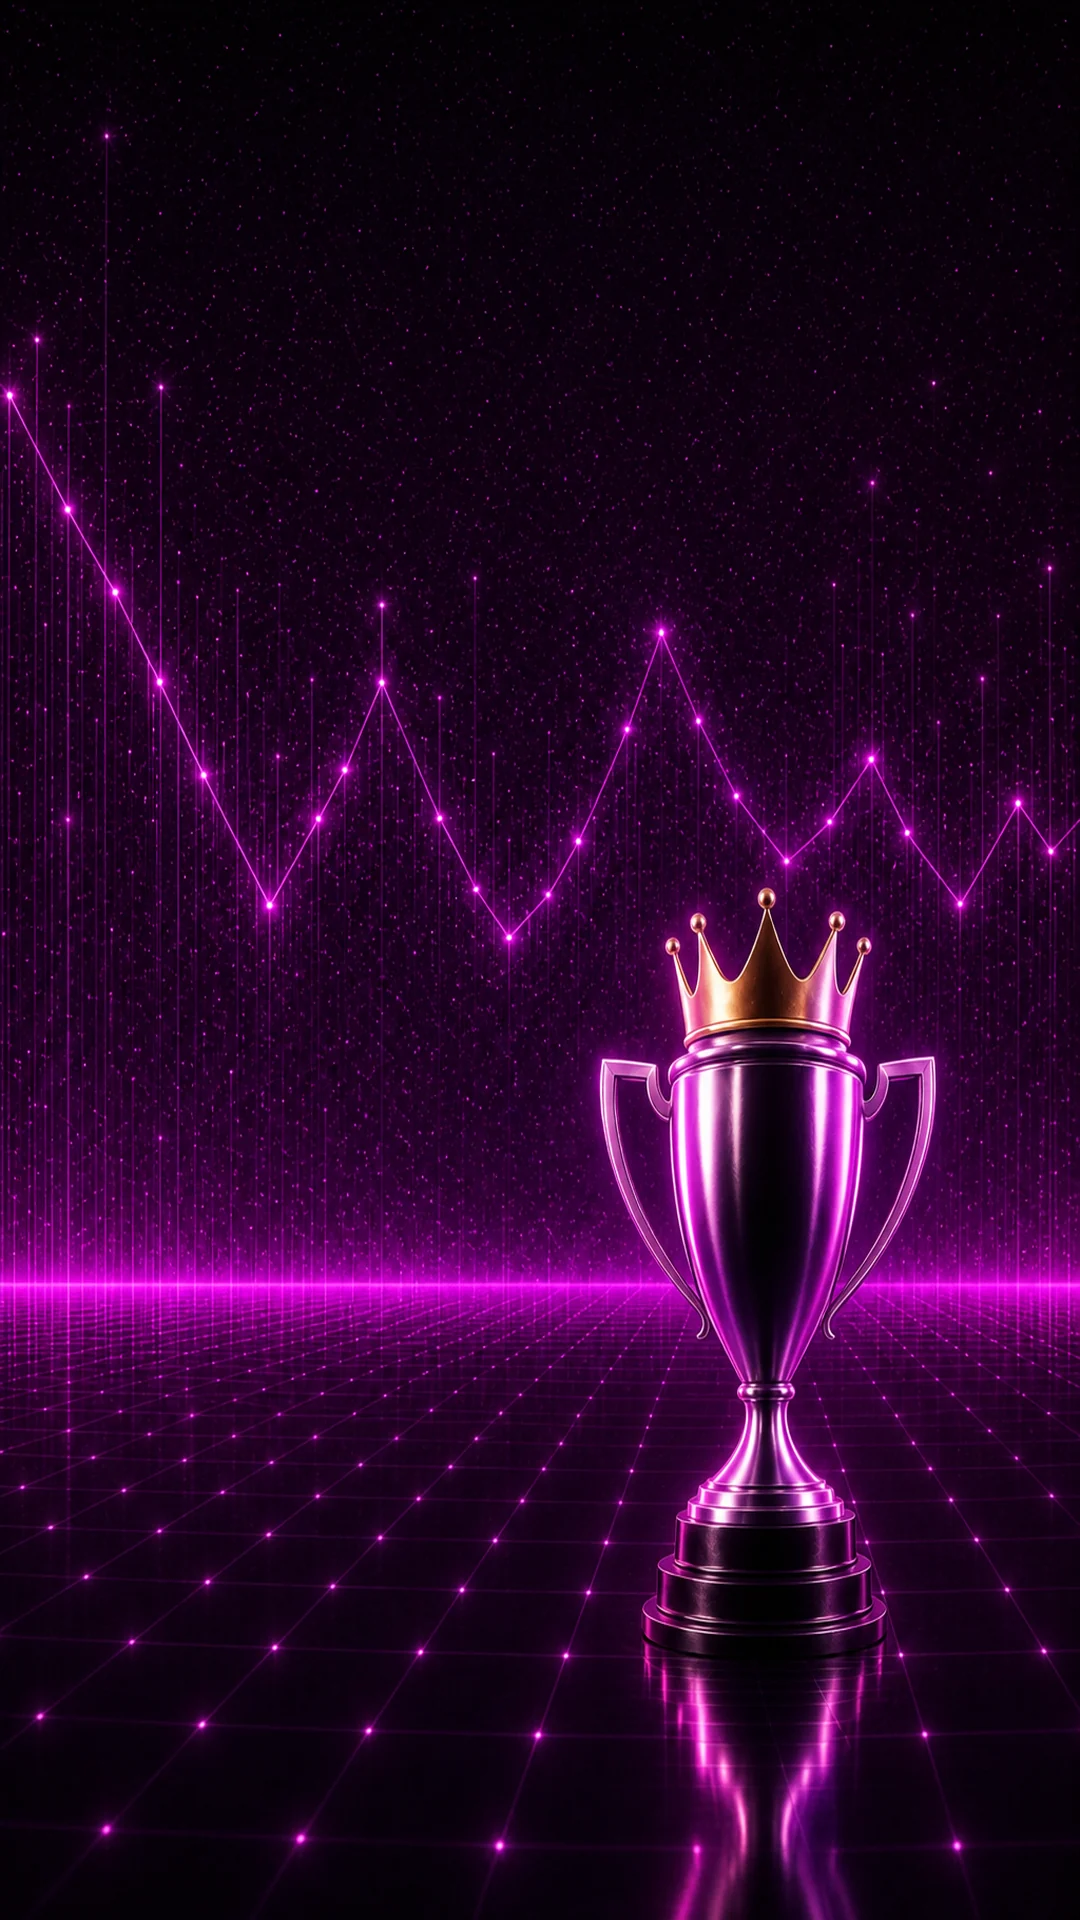
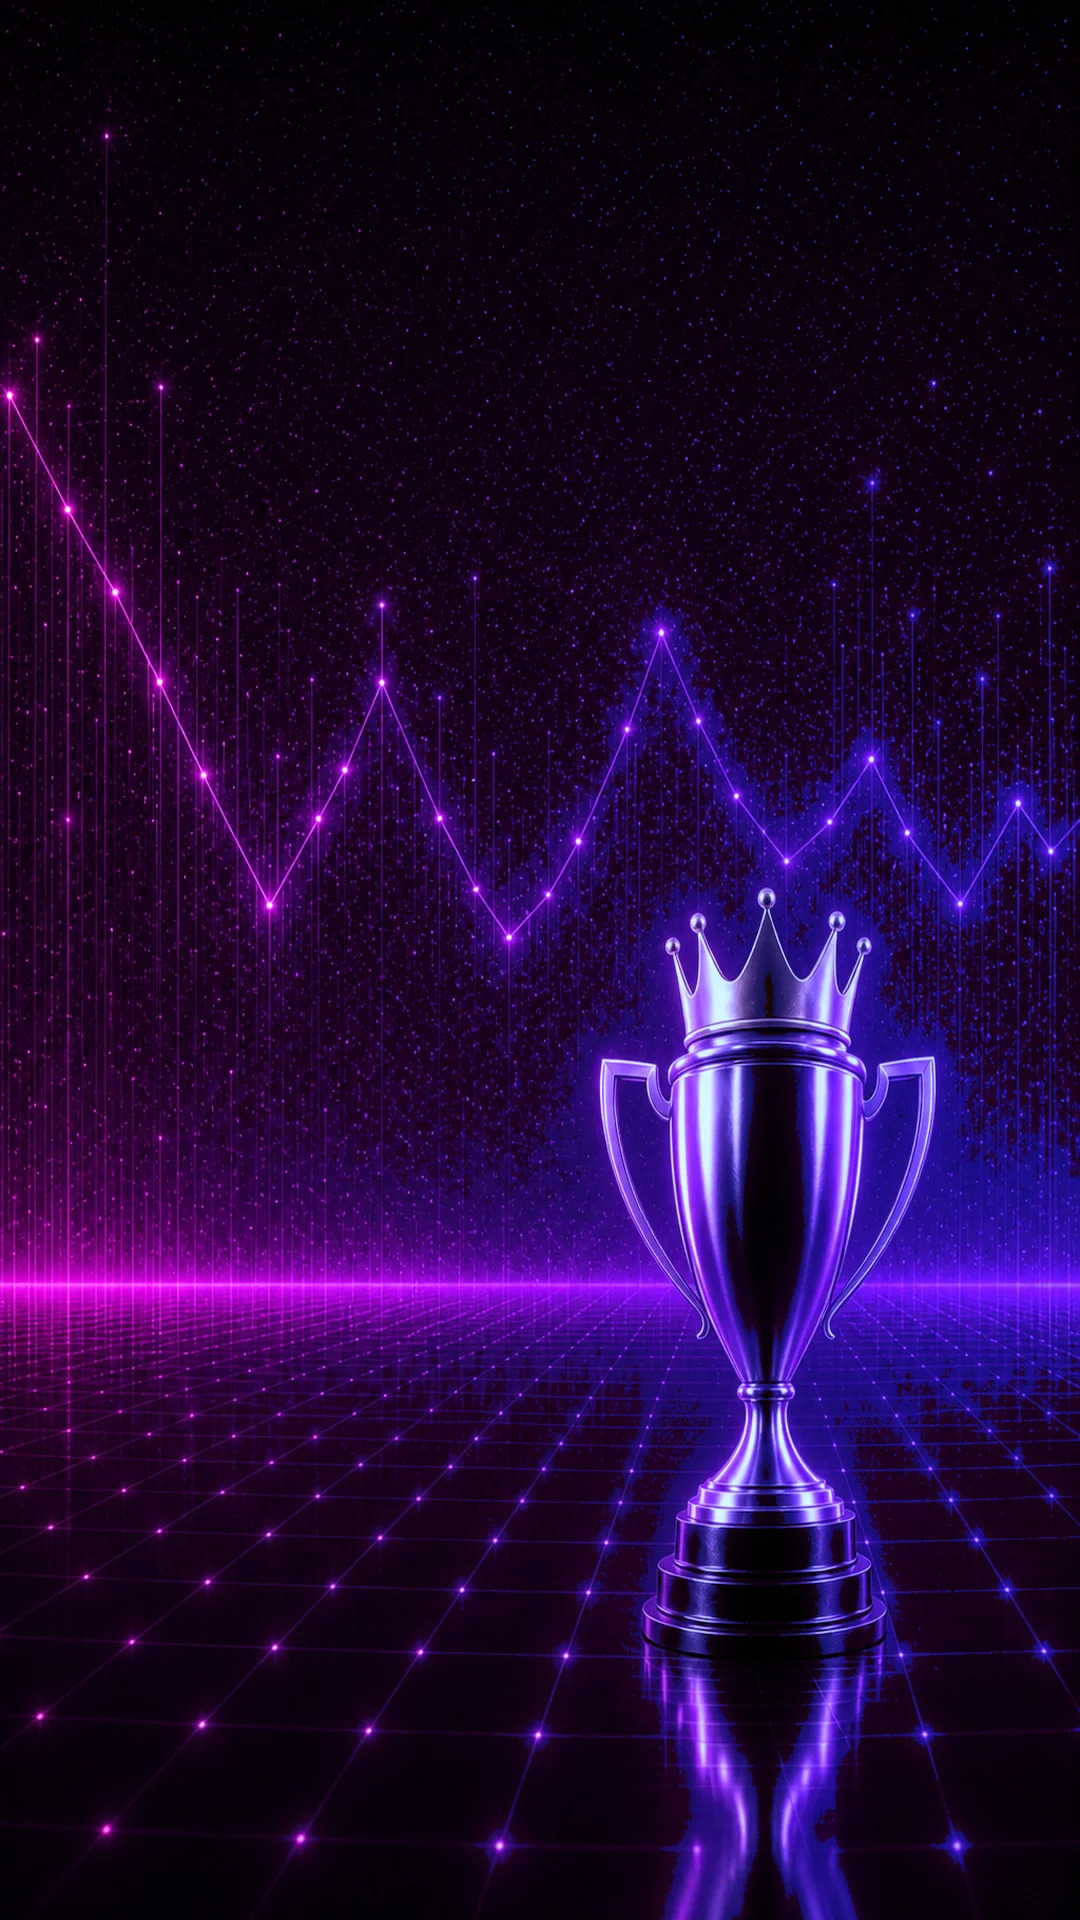
fix(design): rebalance blue against pink overwhelm
Align chrome with SCL-DESIGN-SPEC roles: pink stays on conviction CTAs/
verified; blue owns navigation chrome (border-strong, ring, sidebar,
tabs, volume bars, nav hovers, section icons). Soft pink→blue grade on
the single hero scene; logo mark resolves pink into blue.

diff --git a/src/app/globals.css b/src/app/globals.css
@@ -119,7 +119,7 @@
   --popover: var(--scl-ink-800);
   --popover-foreground: var(--scl-text);
 
-  /* Pink = conviction (CTAs, selection, verification, rank); blue = navigation */
+  /* Pink = conviction (CTAs, verified, selection). Blue = navigation / chrome. */
   --primary: var(--scl-pink);
   --primary-foreground: var(--scl-pink-ink);
   --brand: var(--scl-pink);
@@ -132,8 +132,13 @@
   --avatar-foreground: #ffffff;
   --avatar-start-lightness: 0.42;
   --avatar-chroma: 0.08;
-  --accent: color-mix(in srgb, var(--scl-pink) 16%, var(--scl-ink-700));
-  --accent-foreground: var(--scl-pink-deep);
+  /* Purple bridge — pink + blue, so accent surfaces aren't pink-only */
+  --accent: color-mix(
+    in srgb,
+    var(--scl-blue) 12%,
+    color-mix(in srgb, var(--scl-pink) 10%, var(--scl-ink-700))
+  );
+  --accent-foreground: var(--scl-blue-deep);
   --destructive: var(--scl-loss);
 
   --pos: var(--scl-win);
@@ -150,12 +155,13 @@
   --push: var(--scl-push);
 
   --border: var(--scl-line);
-  --border-strong: color-mix(in srgb, var(--scl-pink) 45%, var(--scl-line));
+  /* Strong borders lean blue (nav chrome) — pink stays on conviction hairlines */
+  --border-strong: color-mix(in srgb, var(--scl-blue) 42%, var(--scl-line));
   --input: var(--scl-line);
-  --ring: var(--scl-pink);
+  --ring: var(--scl-blue);
 
   --chart-1: var(--scl-pink);
-  --chart-2: var(--scl-pink-deep);
+  --chart-2: var(--scl-blue);
   --chart-3: var(--scl-win);
   --chart-4: var(--scl-muted-data);
   --chart-5: var(--scl-loss);
@@ -168,12 +174,12 @@
 
   --sidebar: var(--scl-ink-900);
   --sidebar-foreground: var(--scl-text);
-  --sidebar-primary: var(--scl-pink);
-  --sidebar-primary-foreground: var(--scl-pink-ink);
+  --sidebar-primary: var(--scl-blue);
+  --sidebar-primary-foreground: var(--scl-blue-ink);
   --sidebar-accent: var(--scl-ink-700);
   --sidebar-accent-foreground: var(--scl-text);
   --sidebar-border: var(--scl-line);
-  --sidebar-ring: var(--scl-pink);
+  --sidebar-ring: var(--scl-blue);
 }
 
 /* Alias for design-doc paste compatibility */
@@ -240,8 +246,13 @@
   --avatar-foreground: #ffffff;
   --avatar-start-lightness: 0.38;
   --avatar-chroma: 0.06;
-  --accent: color-mix(in srgb, var(--scl-pink) 14%, var(--scl-ink-700));
-  --accent-foreground: var(--scl-pink);
+  /* Purple bridge — pink + blue, so accent surfaces aren't pink-only */
+  --accent: color-mix(
+    in srgb,
+    var(--scl-blue) 14%,
+    color-mix(in srgb, var(--scl-pink) 10%, var(--scl-ink-700))
+  );
+  --accent-foreground: var(--scl-blue);
   --destructive: var(--scl-loss);
 
   --pos: var(--scl-win);
@@ -258,16 +269,13 @@
   --push: var(--scl-push);
 
   --border: var(--scl-line);
-  --border-strong: color-mix(
-    in srgb,
-    var(--scl-pink-deep) 55%,
-    var(--scl-line)
-  );
+  /* Strong borders lean blue (nav chrome) — pink stays on conviction hairlines */
+  --border-strong: color-mix(in srgb, var(--scl-blue) 48%, var(--scl-line));
   --input: var(--scl-line);
-  --ring: var(--scl-pink);
+  --ring: var(--scl-blue);
 
   --chart-1: var(--scl-pink);
-  --chart-2: var(--scl-pink-deep);
+  --chart-2: var(--scl-blue);
   --chart-3: var(--scl-win);
   --chart-4: var(--scl-muted-data);
   --chart-5: var(--scl-loss);
@@ -278,12 +286,12 @@
 
   --sidebar: var(--scl-ink-900);
   --sidebar-foreground: var(--scl-text);
-  --sidebar-primary: var(--scl-pink);
-  --sidebar-primary-foreground: var(--scl-pink-ink);
+  --sidebar-primary: var(--scl-blue);
+  --sidebar-primary-foreground: var(--scl-blue-ink);
   --sidebar-accent: var(--scl-ink-700);
   --sidebar-accent-foreground: var(--scl-text);
   --sidebar-border: var(--scl-line);
-  --sidebar-ring: var(--scl-pink);
+  --sidebar-ring: var(--scl-blue);
 }
 
 @layer base {

diff --git a/src/components/scl-logo.tsx b/src/components/scl-logo.tsx
@@ -1,8 +1,13 @@
+"use client";
+
+import { useId } from "react";
+
 /**
- * SCL trophy mark — conviction pink (scarce identity signal).
- * Token-driven so it follows dark/light pink values.
+ * SCL trophy mark — pink→blue brand gradient (conviction → navigation).
+ * Token-driven so it follows dark/light pink/blue values.
  */
 export function SclLogo({ className }: { className?: string }) {
+  const gradId = useId().replace(/:/g, "");
   return (
     <svg
       viewBox="0 0 32 32"
@@ -11,7 +16,21 @@ export function SclLogo({ className }: { className?: string }) {
       role="img"
       aria-label="SCL"
     >
-      {/* crown */}
+      <defs>
+        <linearGradient
+          id={gradId}
+          x1="6"
+          y1="4"
+          x2="26"
+          y2="28"
+          gradientUnits="userSpaceOnUse"
+        >
+          <stop offset="0%" stopColor="var(--scl-pink)" />
+          <stop offset="50%" stopColor="var(--scl-pink)" />
+          <stop offset="100%" stopColor="var(--scl-blue)" />
+        </linearGradient>
+      </defs>
+      {/* crown — conviction pink */}
       <path
         d="M9.4 10.2 7.8 4.7 12 7.3 16 3.4 20 7.3 24.2 4.7 22.6 10.2Z"
         fill="var(--scl-pink)"
@@ -19,25 +38,25 @@ export function SclLogo({ className }: { className?: string }) {
       {/* cup bowl */}
       <path
         d="M9.4 11.2h13.2v2.1c0 4.8-2.95 8-6.6 8s-6.6-3.2-6.6-8z"
-        fill="var(--scl-pink)"
+        fill={`url(#${gradId})`}
       />
       {/* handles */}
       <path
         d="M9.4 12.2c-3.4 0-3.4 4.5.2 4.9M22.6 12.2c3.4 0 3.4 4.5-.2 4.9"
-        stroke="var(--scl-pink)"
+        stroke={`url(#${gradId})`}
         strokeWidth="1.7"
         strokeLinecap="round"
         fill="none"
       />
-      {/* stem + base */}
-      <path d="M14.6 21.1h2.8l-.3 3h-2.2z" fill="var(--scl-pink)" />
+      {/* stem + base — resolve into navigation blue */}
+      <path d="M14.6 21.1h2.8l-.3 3h-2.2z" fill="var(--scl-blue)" />
       <rect
         x="11.3"
         y="24.1"
         width="9.4"
         height="3"
         rx="1.4"
-        fill="var(--scl-pink)"
+        fill="var(--scl-blue)"
       />
     </svg>
   );

diff --git a/src/components/scl/league-action-report.tsx b/src/components/scl/league-action-report.tsx
@@ -61,7 +61,7 @@ function VolumeBar({ value, max }: { value: number; max: number }) {
       aria-hidden
     >
       <div
-        className="h-full rounded-full bg-[color:var(--scl-pink)] transition-[width] duration-300"
+        className="h-full rounded-full bg-[color:var(--scl-blue)] transition-[width] duration-300"
         style={{ width: `${pct}%` }}
       />
     </div>
@@ -109,7 +109,7 @@ function ButtonishPicksLink({ label }: { label: string }) {
   return (
     <Link
       href="/picks"
-      className="inline-flex min-h-10 items-center gap-1.5 text-sm font-semibold text-[color:var(--scl-pink)] hover:underline"
+      className="inline-flex min-h-10 items-center gap-1.5 text-sm font-semibold text-[color:var(--scl-blue)] hover:underline"
     >
       {label}
       <ArrowRight className="size-3.5" aria-hidden />
@@ -233,7 +233,7 @@ export function LeagueActionReport({
           >
             <TabsTrigger
               value="leagues"
-              className="min-h-9 px-3 data-active:text-[color:var(--scl-pink)]"
+              className="min-h-9 px-3 data-active:text-[color:var(--scl-blue)]"
             >
               Top Leagues
               {leagues.length > 0 ? (
@@ -246,7 +246,7 @@ export function LeagueActionReport({
               <TabsTrigger
                 key={cat.key}
                 value={cat.key}
-                className="min-h-9 px-3 data-active:text-[color:var(--scl-pink)]"
+                className="min-h-9 px-3 data-active:text-[color:var(--scl-blue)]"
               >
                 {cat.label}
                 <span

diff --git a/src/components/site-header.tsx b/src/components/site-header.tsx
@@ -29,19 +29,19 @@ export async function SiteHeader() {
         <nav className="text-muted-foreground hidden items-center gap-1 text-sm sm:flex">
           <Link
             href="/leaderboard"
-            className="hover:text-foreground inline-flex min-h-11 items-center px-3 transition-colors"
+            className="inline-flex min-h-11 items-center px-3 transition-colors hover:text-[color:var(--scl-blue)]"
           >
             Leaderboard
           </Link>
           <Link
             href="/cappers"
-            className="hover:text-foreground inline-flex min-h-11 items-center px-3 transition-colors"
+            className="inline-flex min-h-11 items-center px-3 transition-colors hover:text-[color:var(--scl-blue)]"
           >
             Cappers
           </Link>
           <Link
             href="/packages"
-            className="hover:text-foreground inline-flex min-h-11 items-center px-3 transition-colors"
+            className="inline-flex min-h-11 items-center px-3 transition-colors hover:text-[color:var(--scl-blue)]"
           >
             Packages
           </Link>

diff --git a/src/components/scl/mobile-navigation.tsx b/src/components/scl/mobile-navigation.tsx
@@ -79,7 +79,7 @@ export function MobileSiteNav({ authed = false }: { authed?: boolean }) {
                 render={<Link href={item.href} className={navLinkClass} />}
               >
                 <Icon
-                  className="size-5 text-[color:var(--scl-muted-data)]"
+                  className="size-5 text-[color:var(--scl-blue)]"
                   aria-hidden
                 />
                 {item.label}
@@ -179,7 +179,7 @@ export function MobileAppNav({ area, nav }: { area: string; nav: NavItem[] }) {
                 render={<Link href={item.href} className={navLinkClass} />}
               >
                 <Icon
-                  className="size-5 text-[color:var(--scl-muted-data)]"
+                  className="size-5 text-[color:var(--scl-blue)]"
                   aria-hidden
                 />
                 {item.label}

diff --git a/src/components/scl/section.tsx b/src/components/scl/section.tsx
@@ -22,7 +22,7 @@ export function SectionHeader({
     <div className={cn("flex items-start justify-between gap-3", className)}>
       <div className="flex min-w-0 items-start gap-2.5">
         {Icon ? (
-          <span className="flex size-9 shrink-0 items-center justify-center rounded-lg border border-[color:var(--scl-line)] bg-[color:var(--scl-ink-700)] text-[color:var(--scl-pink)]">
+          <span className="flex size-9 shrink-0 items-center justify-center rounded-lg border border-[color:var(--scl-line)] bg-[color:var(--scl-ink-700)] text-[color:var(--scl-blue)]">
             <Icon className="size-4" aria-hidden />
           </span>
         ) : null}

diff --git a/src/components/scl/states.tsx b/src/components/scl/states.tsx
@@ -23,7 +23,7 @@ export function EmptyState({
       )}
     >
       {Icon ? (
-        <span className="mb-3 flex size-12 items-center justify-center rounded-xl border border-[color:var(--scl-line)] bg-[color:var(--scl-ink-700)] text-[color:var(--scl-pink)]">
+        <span className="mb-3 flex size-12 items-center justify-center rounded-xl border border-[color:var(--scl-line)] bg-[color:var(--scl-ink-700)] text-[color:var(--scl-blue)]">
           <Icon className="size-6" aria-hidden />
         </span>
       ) : null}

diff --git a/src/components/scl/competition-hero.tsx b/src/components/scl/competition-hero.tsx
@@ -176,7 +176,7 @@ export function CompetitionHero() {
                 className={cn(
                   "focus-visible:ring-ring h-2 rounded-full transition-all focus-visible:ring-2 focus-visible:outline-none",
                   i === index
-                    ? "w-7 bg-[color:var(--scl-pink)]"
+                    ? "w-7 bg-[color:var(--scl-blue)]"
                     : "bg-muted-foreground/40 hover:bg-muted-foreground/70 w-2",
                 )}
               />

diff --git a/docs/SCL_DESIGN_CONTRACT.md b/docs/SCL_DESIGN_CONTRACT.md
@@ -17,19 +17,19 @@ a spreadsheet, a WordPress sports blog, or a default shadcn clone.
 
 Defined in `src/app/globals.css`, dark-mode first. Every color has a job:
 
-| Token                                             | Utility                      | Job                                                                              |
-| ------------------------------------------------- | ---------------------------- | -------------------------------------------------------------------------------- |
-| `background` / `card` / `surface-2` / `surface-3` | `bg-*`                       | Deep **purple** base + layered surfaces (depth)                                  |
-| `border` / `border-strong`                        | `border-*`                   | Premium hairlines; `-strong` carries a pink tint                                 |
-| `brand`                                           | `text-brand`, `bg-brand`     | SCL identity — **pink-magenta**. Accents, highlights, rank movement, focus rings |
-| `primary`                                         | `bg-primary`, `text-primary` | **Blue** — the action color (CTAs, primary buttons, links)                       |
-| `accent`                                          | `bg-accent`                  | Purple bridge between brand-pink and primary-blue                                |
-| `pos`                                             | `text-pos`, `bg-pos/15`      | Positive performance (wins, +units, +ROI) — green                                |
-| `neg`                                             | `text-neg`, `bg-neg/15`      | Negative performance (losses, −units) — red                                      |
-| `gold`                                            | `text-gold`, `bg-gold/10`    | Rank, elite status, trophies, badges                                             |
-| `live`                                            | `text-live`, `bg-live/15`    | Live/real-time + verification — cyan                                             |
-| `push`                                            | —                            | Push/void neutral                                                                |
-| `muted-foreground`                                | `text-muted-foreground`      | Secondary metadata, labels                                                       |
+| Token                                             | Utility                      | Job                                                                                              |
+| ------------------------------------------------- | ---------------------------- | ------------------------------------------------------------------------------------------------ |
+| `background` / `card` / `surface-2` / `surface-3` | `bg-*`                       | Deep **purple** base + layered surfaces (depth)                                                  |
+| `border` / `border-strong`                        | `border-*`                   | Premium hairlines; `-strong` leans **blue** (nav chrome). Section conviction hairlines stay pink |
+| `brand`                                           | `text-brand`, `bg-brand`     | SCL identity — **pink-magenta**. Conviction accents, verified, rank highlights                   |
+| `primary`                                         | `bg-primary`, `text-primary` | **Pink** — conviction CTAs (see `design/SCL-DESIGN-SPEC.md` v1.1)                                |
+| `accent`                                          | `bg-accent`                  | Purple bridge — mix of brand-pink **and** navigation-blue                                        |
+| `pos`                                             | `text-pos`, `bg-pos/15`      | Positive performance (wins, +units, +ROI) — green                                                |
+| `neg`                                             | `text-neg`, `bg-neg/15`      | Negative performance (losses, −units) — red                                                      |
+| `gold`                                            | `text-gold`, `bg-gold/10`    | Rank, elite status, trophies, badges                                                             |
+| `live`                                            | `text-live`, `bg-live/15`    | Live/real-time + verification — cyan                                                             |
+| `push`                                            | —                            | Push/void neutral                                                                                |
+| `muted-foreground`                                | `text-muted-foreground`      | Secondary metadata, labels                                                                       |
 
 Rules: no random colors, no meaningless glow. Gradients are reserved for **brand identity
 only** — the pink→blue `.scl-brand-text` wordmark/heading fill and the restrained pink+blue

diff --git a/docs/SCL_ASSET_MANIFEST.md b/docs/SCL_ASSET_MANIFEST.md
@@ -6,10 +6,10 @@ text, metrics, controls, or logos; those remain accessible HTML and code-native 
 Remote sports marks are **self-hosted** (optional) under `public/marks/`, gated by a static
 manifest — never hotlinked. Missing marks always render the monogram/lettermark fallback.
 
-| Asset                             |  Dimensions | Use                         | Treatment                                                                                    |
-| --------------------------------- | ----------: | --------------------------- | -------------------------------------------------------------------------------------------- |
-| `leaderboard-trophy-desktop.webp` | 1920 x 1080 | Home hero at `sm` and above | One continuous magenta data-space; trophy right with crown headroom; no collage / dual-scale |
-| `leaderboard-trophy-mobile.webp`  | 1080 x 1920 | Home hero below `sm`        | Matching single continuous portrait; trophy lower field with headroom                        |
+| Asset                             |  Dimensions | Use                         | Treatment                                                                            |
+| --------------------------------- | ----------: | --------------------------- | ------------------------------------------------------------------------------------ |
+| `leaderboard-trophy-desktop.webp` | 1920 x 1080 | Home hero at `sm` and above | One continuous scene; soft pink→blue light balance; trophy right with crown headroom |
+| `leaderboard-trophy-mobile.webp`  | 1080 x 1920 | Home hero below `sm`        | Matching single continuous portrait with balanced pink/blue atmosphere               |
 
 ## League / team marks (self-hosted)
 
